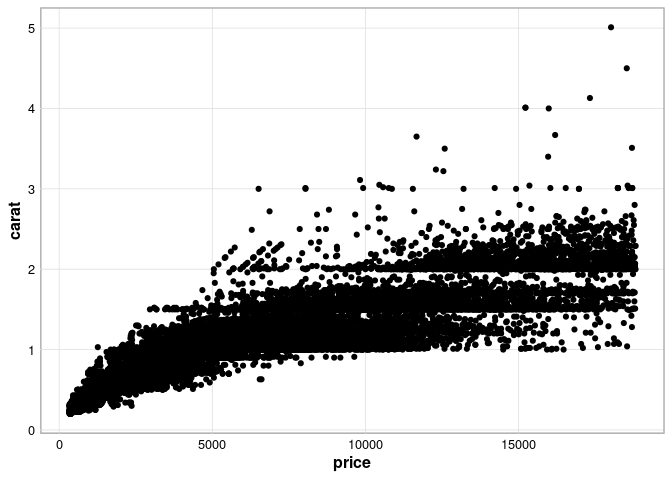
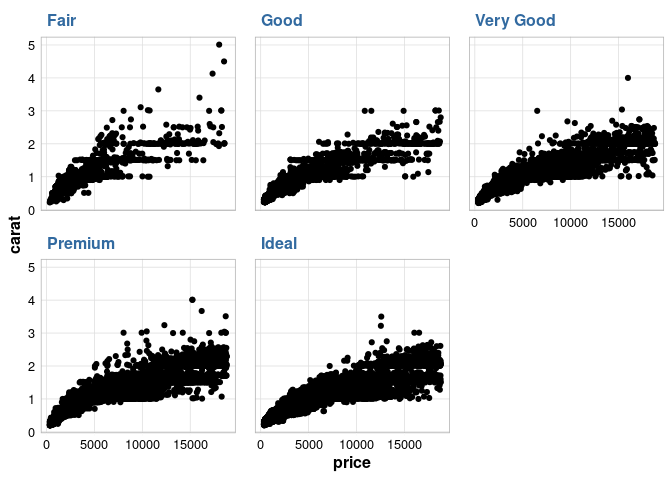
Use a more elaborate example in the README

diff --git a/README.md b/README.md
@@ -34,6 +34,7 @@ library(covalencer)
 
 ggplot(data = diamonds, aes(x = price, y = carat)) +
     geom_point() +
+    facet_wrap(vars(cut)) +
     theme_covalence()
 ```
 
